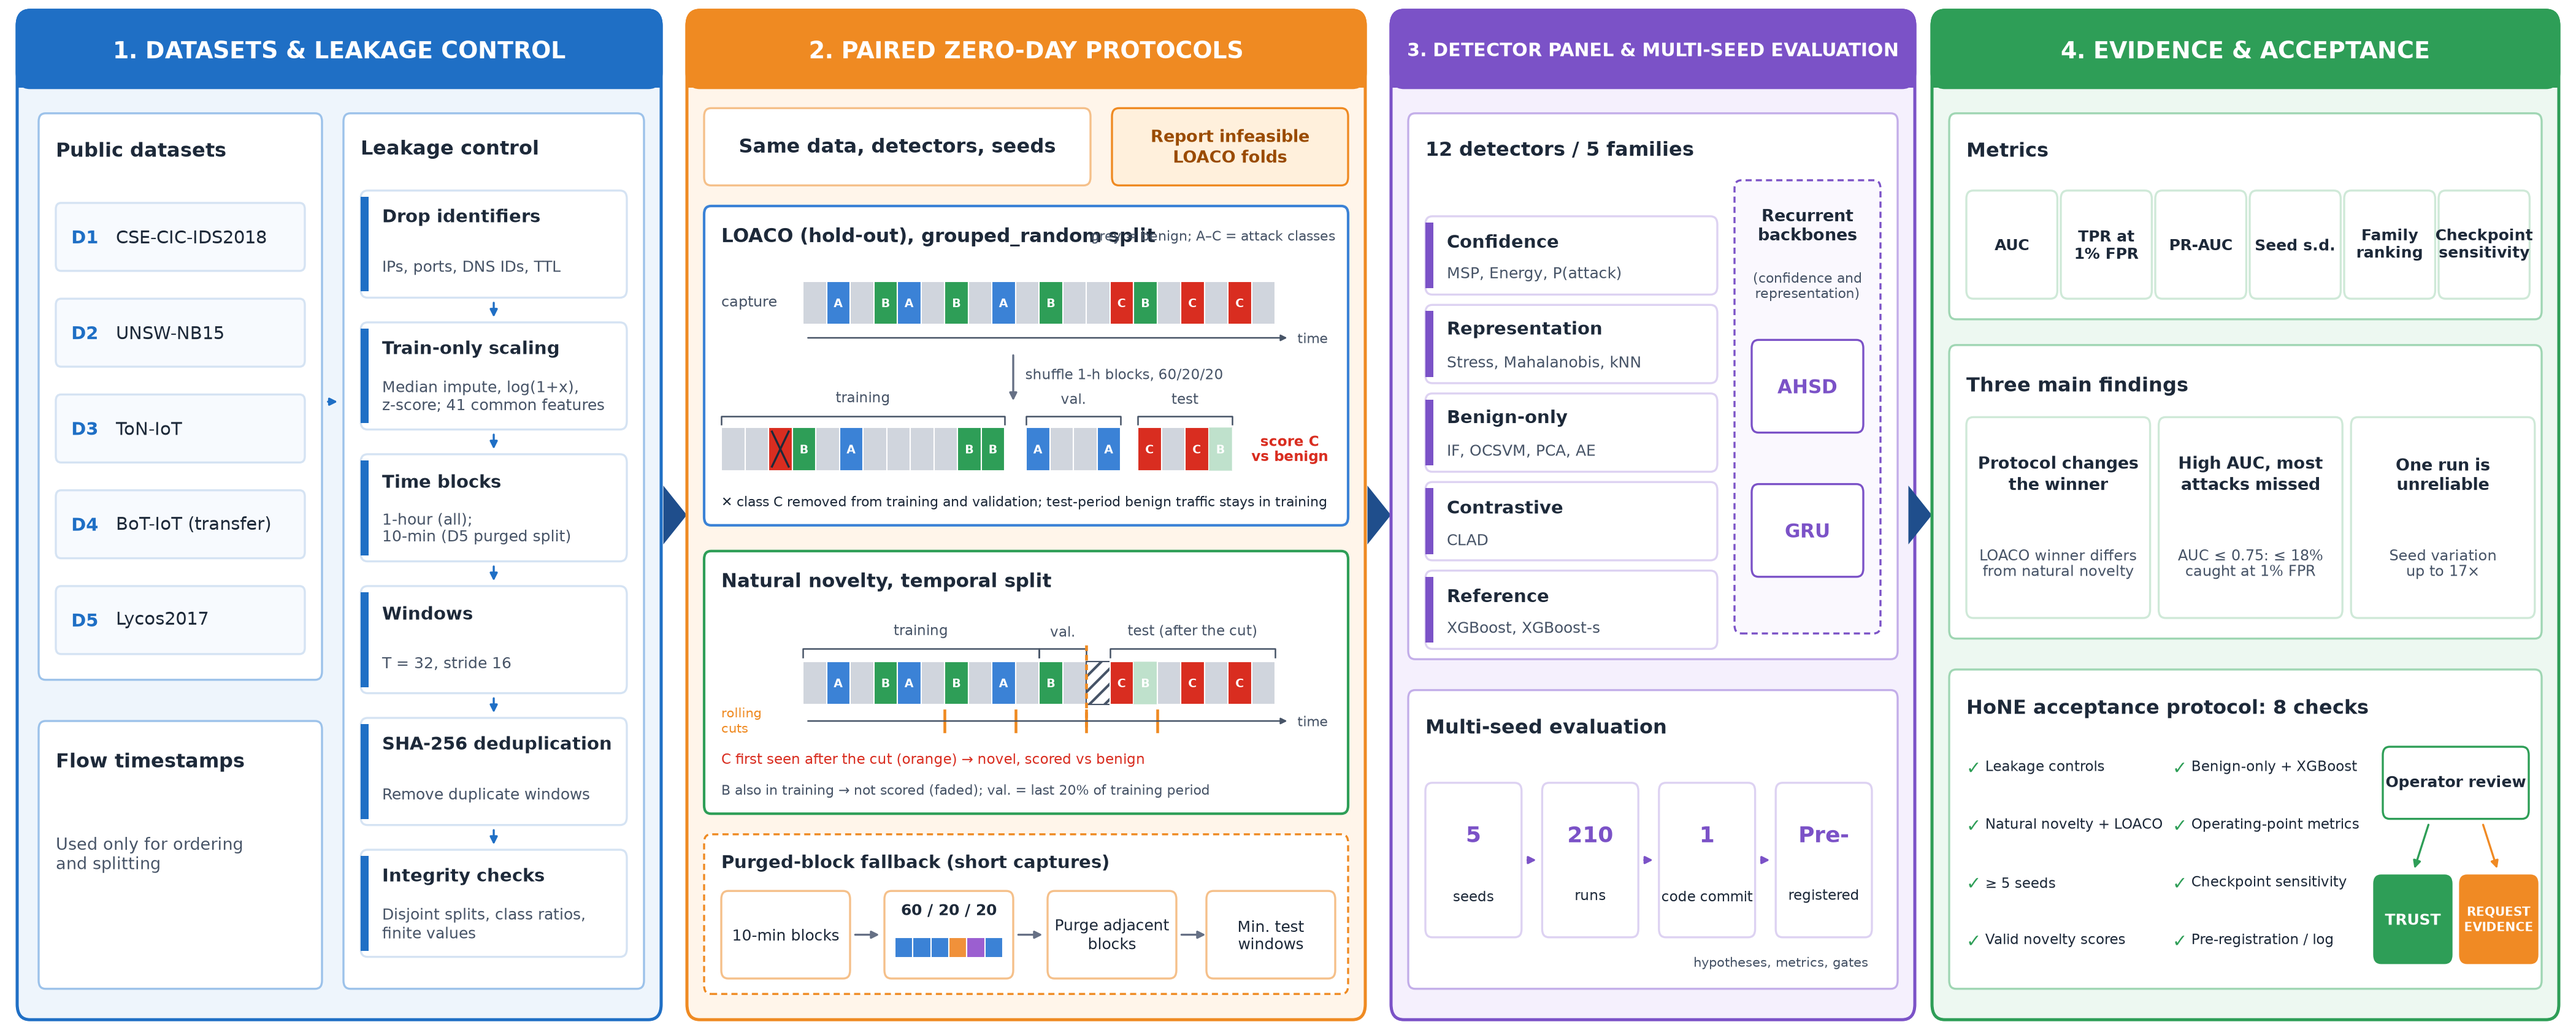
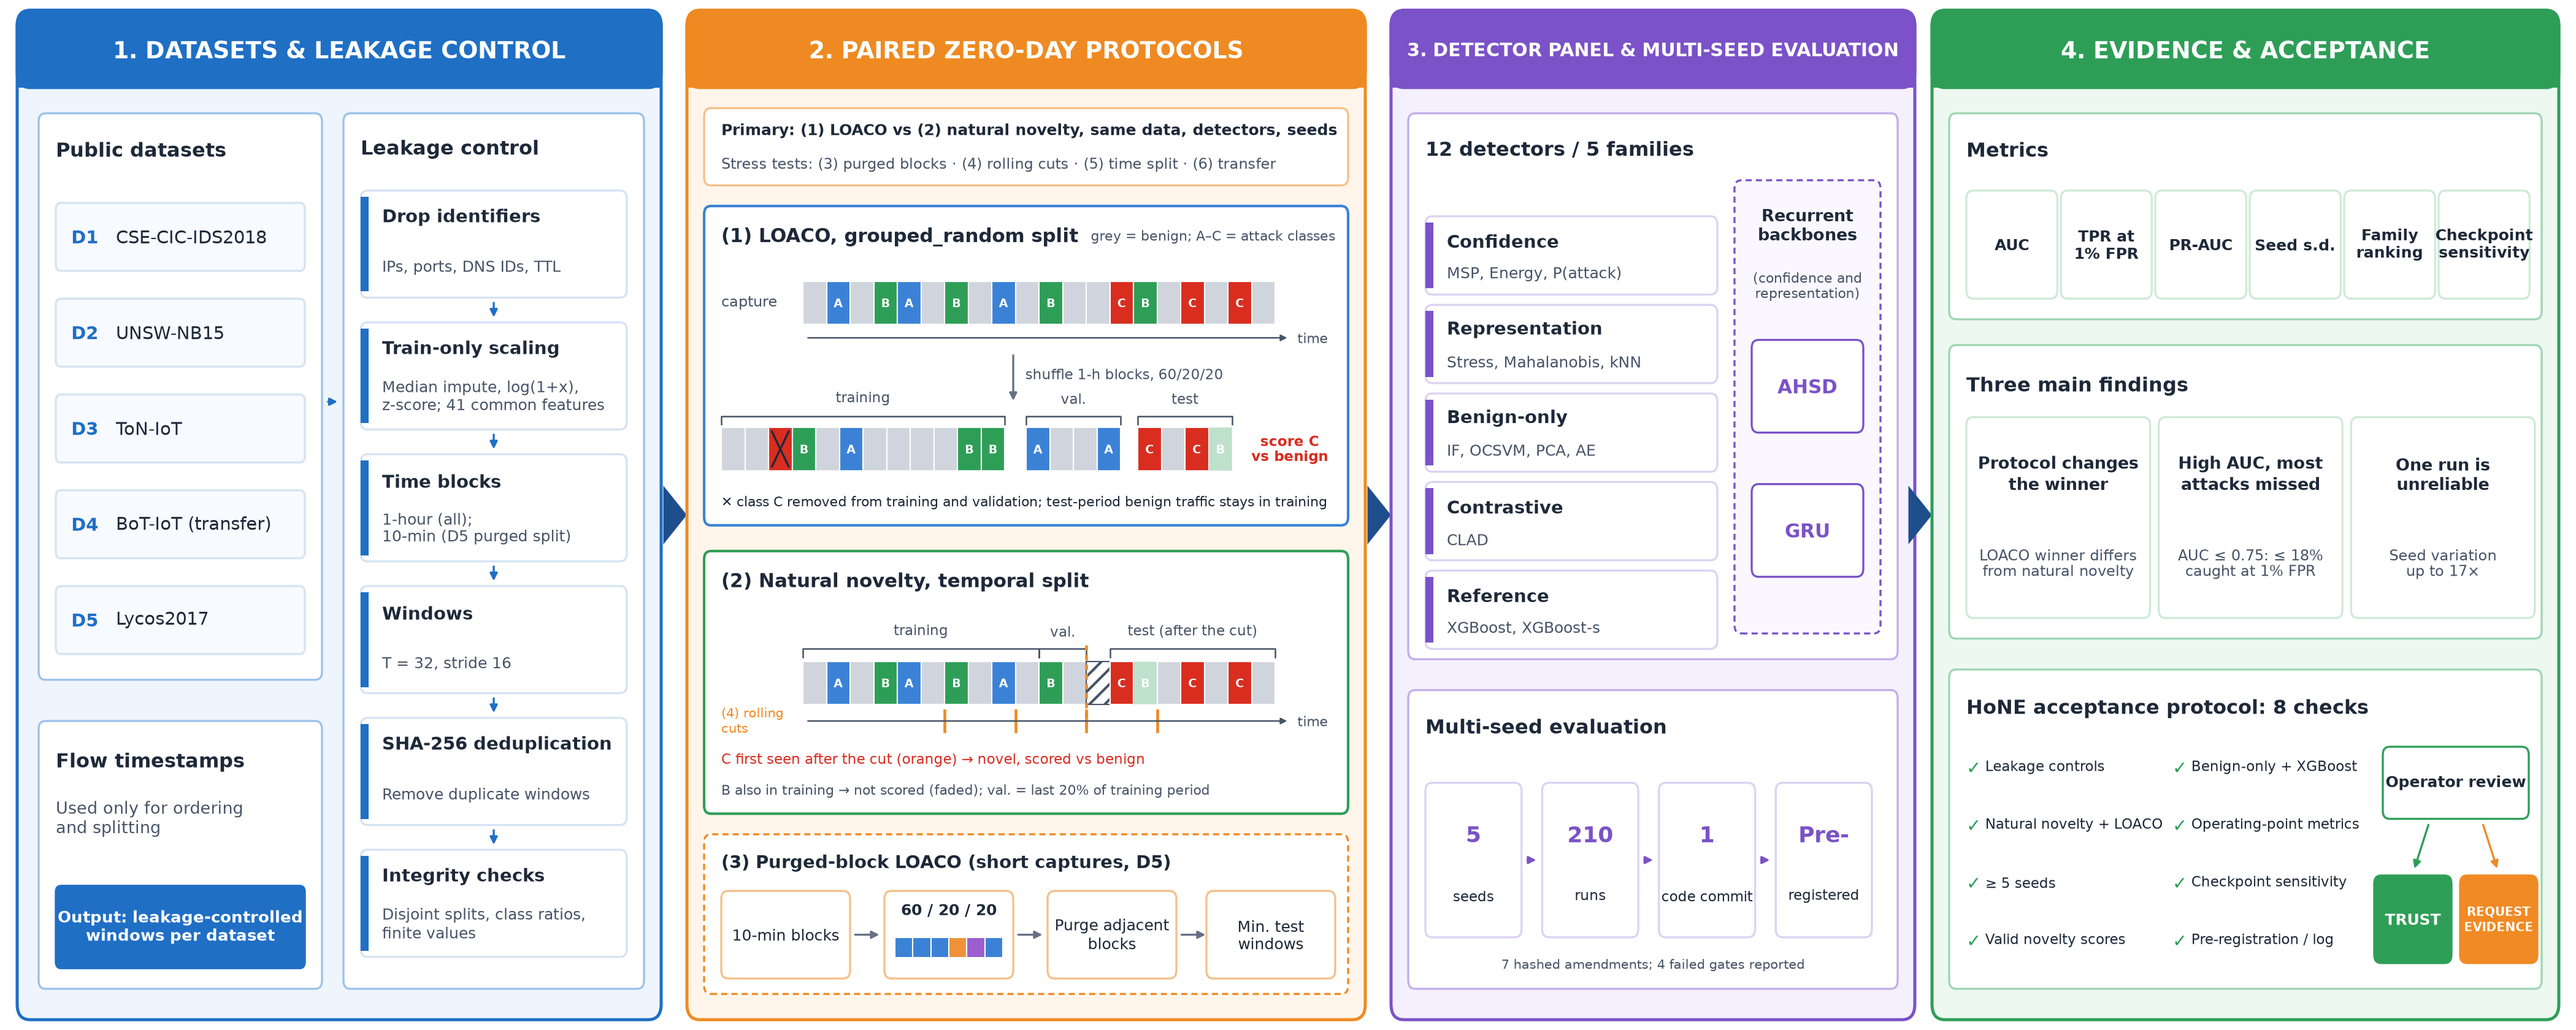
Fig. 1 final: protocol taxonomy (1)-(6), stage-1 output, pre-registration detail
Claude-Session: https://claude.ai/code/session_01LmdWFNgatKQB5uMLcpPZvX

diff --git a/paper/hone_user/fig_methodology.py b/paper/hone_user/fig_methodology.py
@@ -75,7 +75,9 @@ for i, (k, name) in enumerate([("D1", "CSE-CIC-IDS2018"), ("D2", "UNSW-NB15"), (
     t(13.5, y, name, size=7)
 box(4.5, 4, 33, 26, ec=eb)
 t(6.5, 26, "Flow timestamps", size=7.6, weight="bold")
-t(6.5, 17, "Used only for ordering\nand splitting", size=6.6, color=SUB)
+t(6.5, 20.5, "Used only for ordering\nand splitting", size=6.6, color=SUB)
+box(6.5, 6, 29, 8, fc=hb, ec=hb, r=0.6)
+t(21, 10, "Output: leakage-controlled\nwindows per dataset", size=6.2, weight="bold", color="white", ha="center")
 
 box(40, 4, 35, 85, ec=eb)
 t(42, 85.5, "Leakage control", size=7.6, weight="bold")
@@ -100,10 +102,9 @@ between(78.5)
 # ---------------------------------------------------------------- panel 2
 panel(80, 79, "orange", "2. PAIRED ZERO-DAY PROTOCOLS")
 ho, lo, eo = C["orange"]
-box(82, 82, 45, 7.5, ec=eo)
-t(104.5, 85.75, "Same data, detectors, seeds", size=7.6, weight="bold", ha="center")
-box(129.5, 82, 27.5, 7.5, fc="#fff0dc", ec=ho)
-t(143.25, 85.75, "Report infeasible\nLOACO folds", size=6.4, weight="bold", color="#9a4b00", ha="center")
+box(82, 82, 75, 7.5, ec=eo)
+t(84, 87.3, "Primary: (1) LOACO vs (2) natural novelty, same data, detectors, seeds", size=5.9, weight="bold")
+t(84, 84.0, "Stress tests: (3) purged blocks · (4) rolling cuts · (5) time split · (6) transfer", size=5.8, color=SUB)
 
 # toy capture: grey = benign, A-C = attack classes; C occurs only late
 TOY = {"N": "#d0d5dd", "A": "#3b82d6", "B": "#2e9e57", "C": "#d92d20"}
@@ -137,7 +138,7 @@ def taxis(y):
 
 # LOACO
 box(82, 49, 75, 31, ec=TRAIN, lw=1)
-t(84, 77, "LOACO (hold-out), grouped_random split", size=7.4, weight="bold")
+t(84, 77, "(1) LOACO, grouped_random split", size=7.4, weight="bold")
 t(155.5, 77, "grey = benign; A–C = attack classes", size=5.2, color=SUB, ha="right")
 t(84, 70.6, "capture", size=5.8, color=SUB)
 for k, c in enumerate(SEQ):
@@ -159,7 +160,7 @@ t(84, 51.2, "✕ class C removed from training and validation; test-period benig
 
 # Natural novelty
 box(82, 21, 75, 25.5, ec="#2e9e57", lw=1)
-t(84, 43.5, "Natural novelty, temporal split", size=7.4, weight="bold")
+t(84, 43.5, "(2) Natural novelty, temporal split", size=7.4, weight="bold")
 CUT = 12
 for k, c in enumerate(SEQ):
     tblock(XS + k * BW, 31.6, c, faded=(k > CUT and c not in "NC"), hatch=(k == CUT))
@@ -172,14 +173,14 @@ taxis(30.0)
 for f in (0.30, 0.45, 0.60, 0.75):
     xx = XS + f * 20 * BW
     ax.plot([xx, xx], [29.0, 31.0], color=ho, lw=1.1)
-t(84, 30.0, "rolling\ncuts", size=5.0, color=ho, va="center")
+t(84, 30.0, "(4) rolling\ncuts", size=5.0, color=ho, va="center")
 t(84, 26.2, "C first seen after the cut (orange) → novel, scored vs benign", size=5.6, color=TOY["C"])
 t(84, 23.2, "B also in training → not scored (faded); val. = last 20% of training period",
   size=5.2, color=SUB)
 
 # Purged-block fallback
 box(82, 3.5, 75, 15.5, ec=ho, ls=(0, (3, 2)))
-t(84, 16.2, "Purged-block fallback (short captures)", size=6.9, weight="bold")
+t(84, 16.2, "(3) Purged-block LOACO (short captures, D5)", size=6.9, weight="bold")
 psteps = [(84, "10-min blocks"), (103, None), (122, "Purge adjacent\nblocks"), (140.5, "Min. test\nwindows")]
 for x, s in psteps:
     box(x, 5, 15, 8.5, ec=eo)
@@ -222,7 +223,7 @@ for i, (a, b) in enumerate(ms):
     t(x + 5.6, 13, b, size=5.5, ha="center")
     if i:
         arrow(x - 2.3, 16.5, x - 0.1, 16.5, color=hp)
-t(207.4, 6.5, "hypotheses, metrics, gates", size=5.0, color=SUB, ha="center")
+t(192.5, 6.3, "7 hashed amendments; 4 failed gates reported", size=5.0, color=SUB, ha="center")
 between(223.5)
 
 # ---------------------------------------------------------------- panel 4
